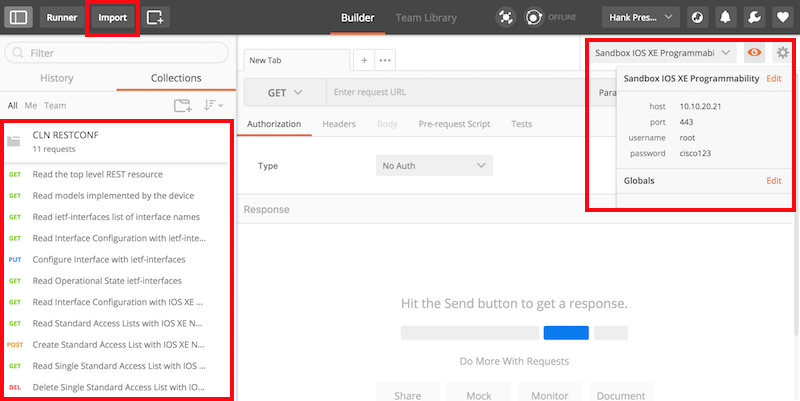
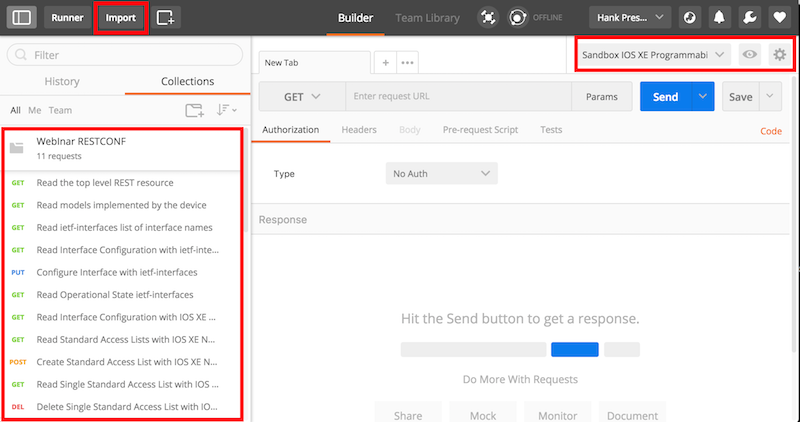
Updated title

diff --git a/README.md b/README.md
@@ -1,6 +1,6 @@
-# Cisco Learning Network RESTCONF Webinar
+# RESTCONF Webinar
 
-Code and Samples for the Cisco Learning Network Webinar on RESTCONF
+Code and Samples for my webinar on RESTCONF
 
 # Pre-Reqs 
 ## DevNet Sandbox 
